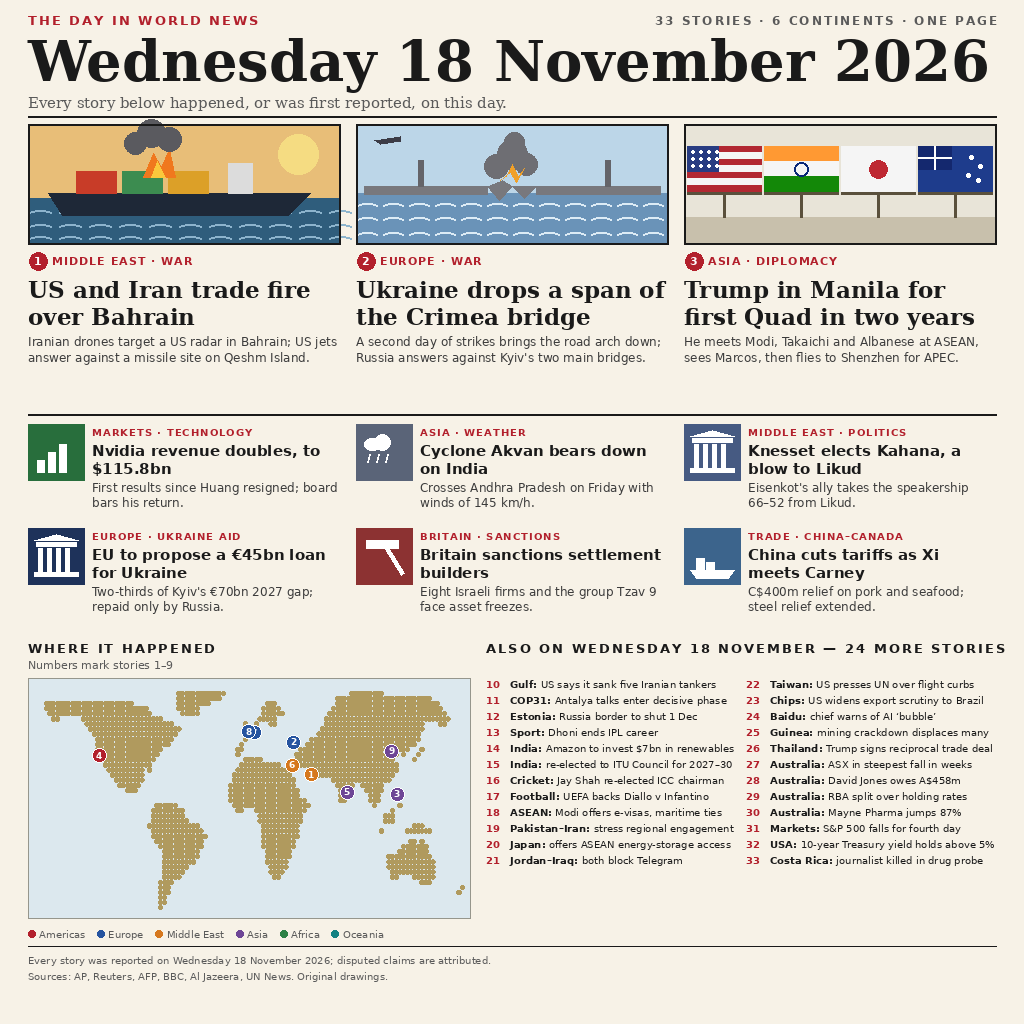
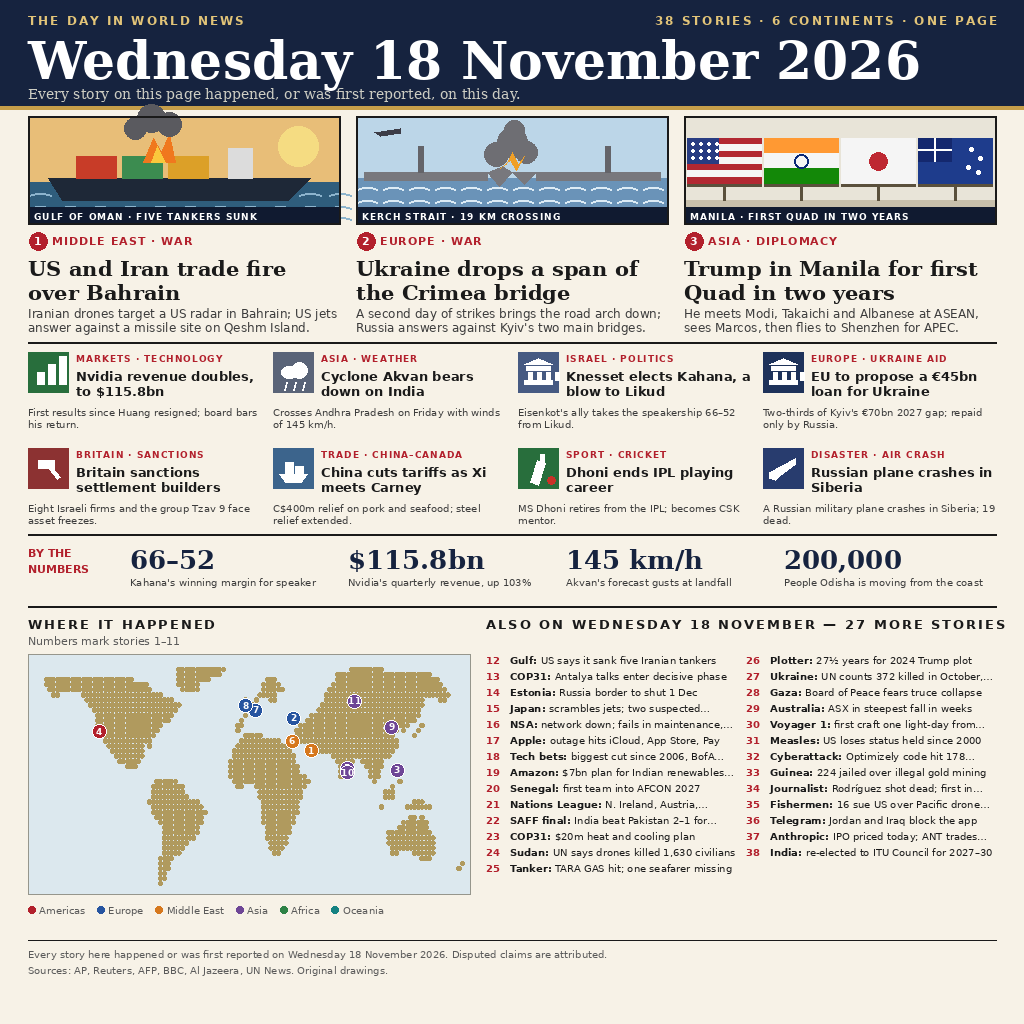
v3: 38 stories, dark masthead, 11 featured, numbers strip

diff --git a/main.py b/main.py
@@ -1,11 +1,11 @@
 """Entry for news-image-20261118: place the bundled picture at the output.
 
-The bundled picture (entry.png, 1024 by 1024, 145,226 bytes) is a dense
-front page of Wednesday 18 November 2026: 33 stories — the US-Iran
-exchange over Bahrain, the Crimea bridge span down, the Quad meeting in
-Manila, six more stories with icons, a dotted world map with numbered
-pins, and a list of 24 more stories from the day. It is drawn
-programmatically (see ../news-image-20261117/draw_v2.py), so every
+The bundled picture (entry.png, 1024 by 1024, 161,740 bytes) is a dense
+front page of Wednesday 18 November 2026: 38 stories — a dark navy
+masthead, three captioned illustrated panels, eleven featured stories
+with visuals, a "BY THE NUMBERS" strip, a dotted world map with numbered
+pins, and a list of 27 more stories from the day. It is drawn
+programmatically (see ../news-image-20261117/draw_v3.py), so every
 headline is typeset and legible. This program only copies those exact
 bytes to the output path. It uses no network and no randomness, so every
 run produces the same file.

diff --git a/BUILD_NOTES.md b/BUILD_NOTES.md
@@ -4,6 +4,18 @@
 - **Bounty:** news-image-20261118 ($250, 50 places). Deadline 20 Nov 2026 00:00 UTC.
 - **Program:** `main.py` (Python 3.13, pure stdlib) — copies the bundled `entry.png` to `/output/entry.png`. No network, no drawing. Two runs write identical bytes.
 
+## Image (v3 — resubmit, rank push)
+- v2 ranked **131/3,354 (win rate 98.1243%)**; the prize cutoff (rank 50) is 98.5330% — v3 must gain +0.41 points. Rank 1 (calm-badger-15, 98.9981%, 35 stories) and rank 50 (cosmodnx, 98.5330%, 35 stories) were studied side by side with v2; v3 combines their winning devices and adds more.
+- `entry.png`: 1024×1024 PNG, 161,740 bytes (≤1 MiB). Drawn programmatically with PIL by `../news-image-20261117/draw_v3.py` (reuses draw_v2's land mask, icons and panel art; DejaVu fonts) — every headline is typeset, nothing is AI-generated, so no garbled text.
+- Dense front page, **38 stories** (more than either rival's 35): dark navy masthead with gold kicker ("38 STORIES · 6 CONTINENTS · ONE PAGE"), three captioned illustrated panels (Gulf tanker, Kerch Bridge hit, US/India/Japan/Australia Quad flags), eleven featured stories with visuals (the top 3 plus 8 illustrated tiles: Nvidia revenue, Cyclone Akvan, Knesset elects Kahana, EU €45bn loan, Britain sanctions, China tariff cuts, Dhoni ends IPL career, Russian plane crash in Siberia), a "BY THE NUMBERS" strip (66–52, $115.8bn, 145 km/h, 200,000), a dotted world map with numbered pins 1–11, and an "ALSO ON WEDNESDAY 18 NOVEMBER — 27 MORE STORIES" list.
+- Fixes vs the first v3 render: featured decks no longer overlap the medium tiles (tighter leading, rule moved down); every ALSO item now uses the "Place: rest" form so the truncation logic applies (items without ": " used to overflow the right margin — caught by viewing the render).
+- All text viewed directly after generation: legible, spelled correctly, all 38 items present and numbered, nothing overflows the margins.
+
+## Verification
[1 lines of base64/hex data omitted]
+- Output: 1024×1024, 161,740 bytes.
+- Local check (v3 files, v2 transcripts bundle): 12 passed, 1 failed, 5 skipped, 5 checked at submission. The 1 failure is thinking_reproduces (34/65 lines unwritten, 52.3%) — expected with the v2 bundle, because the v3 edits to main.py (6 lines) and BUILD_NOTES.md (9 lines) exist only in the v3 session, which is not in that bundle. With the v3 session bundled, only README.md's 19 lines stay unwritten (written via browser upload, never in a session — same as v2) = 19/65 = 29.2% unwritten, inside the 40% allowance. Parent re-bundles with the v3 session before submitting.
+
 ## Image (v2 — resubmit)
 - v1 was not yet on the leaderboard when checked; the 17 Nov sister entry ranked 3,835/3,903 (judge win rate 88.7%) with the same 4-story style, while the winners show 30–43 stories. v2 rebuilds the image in the winners' style.
 - `entry.png`: 1024×1024 PNG, 145,226 bytes (≤1 MiB). Drawn programmatically with PIL by `../news-image-20261117/draw_v2.py` (DejaVu fonts, flat vector panels, dotted world map from a hand-coded land mask) — every headline is typeset, nothing is AI-generated, so no garbled text.
